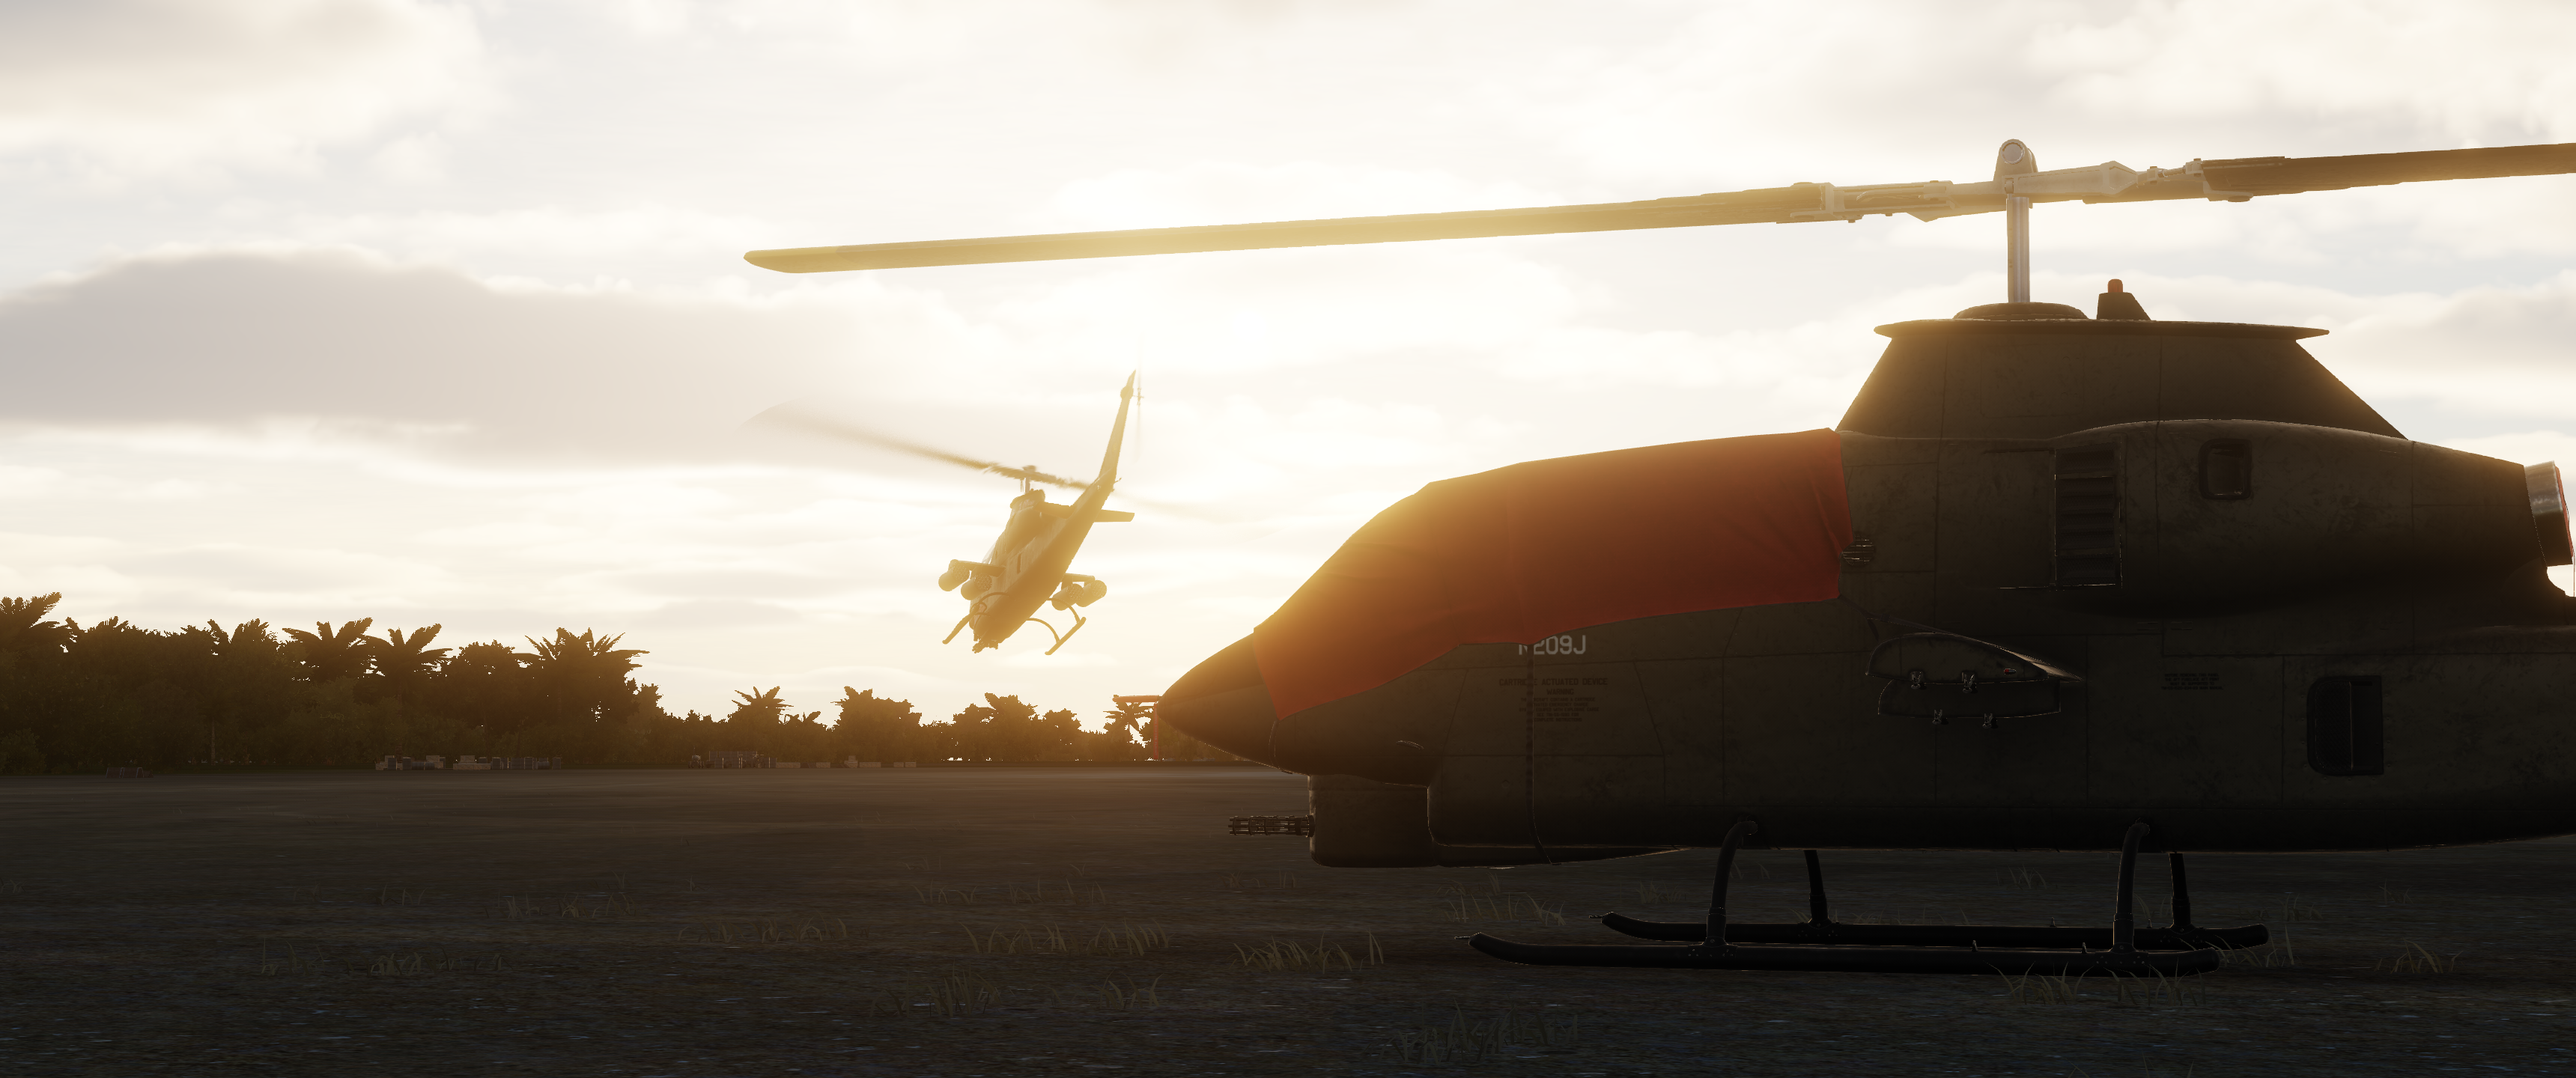
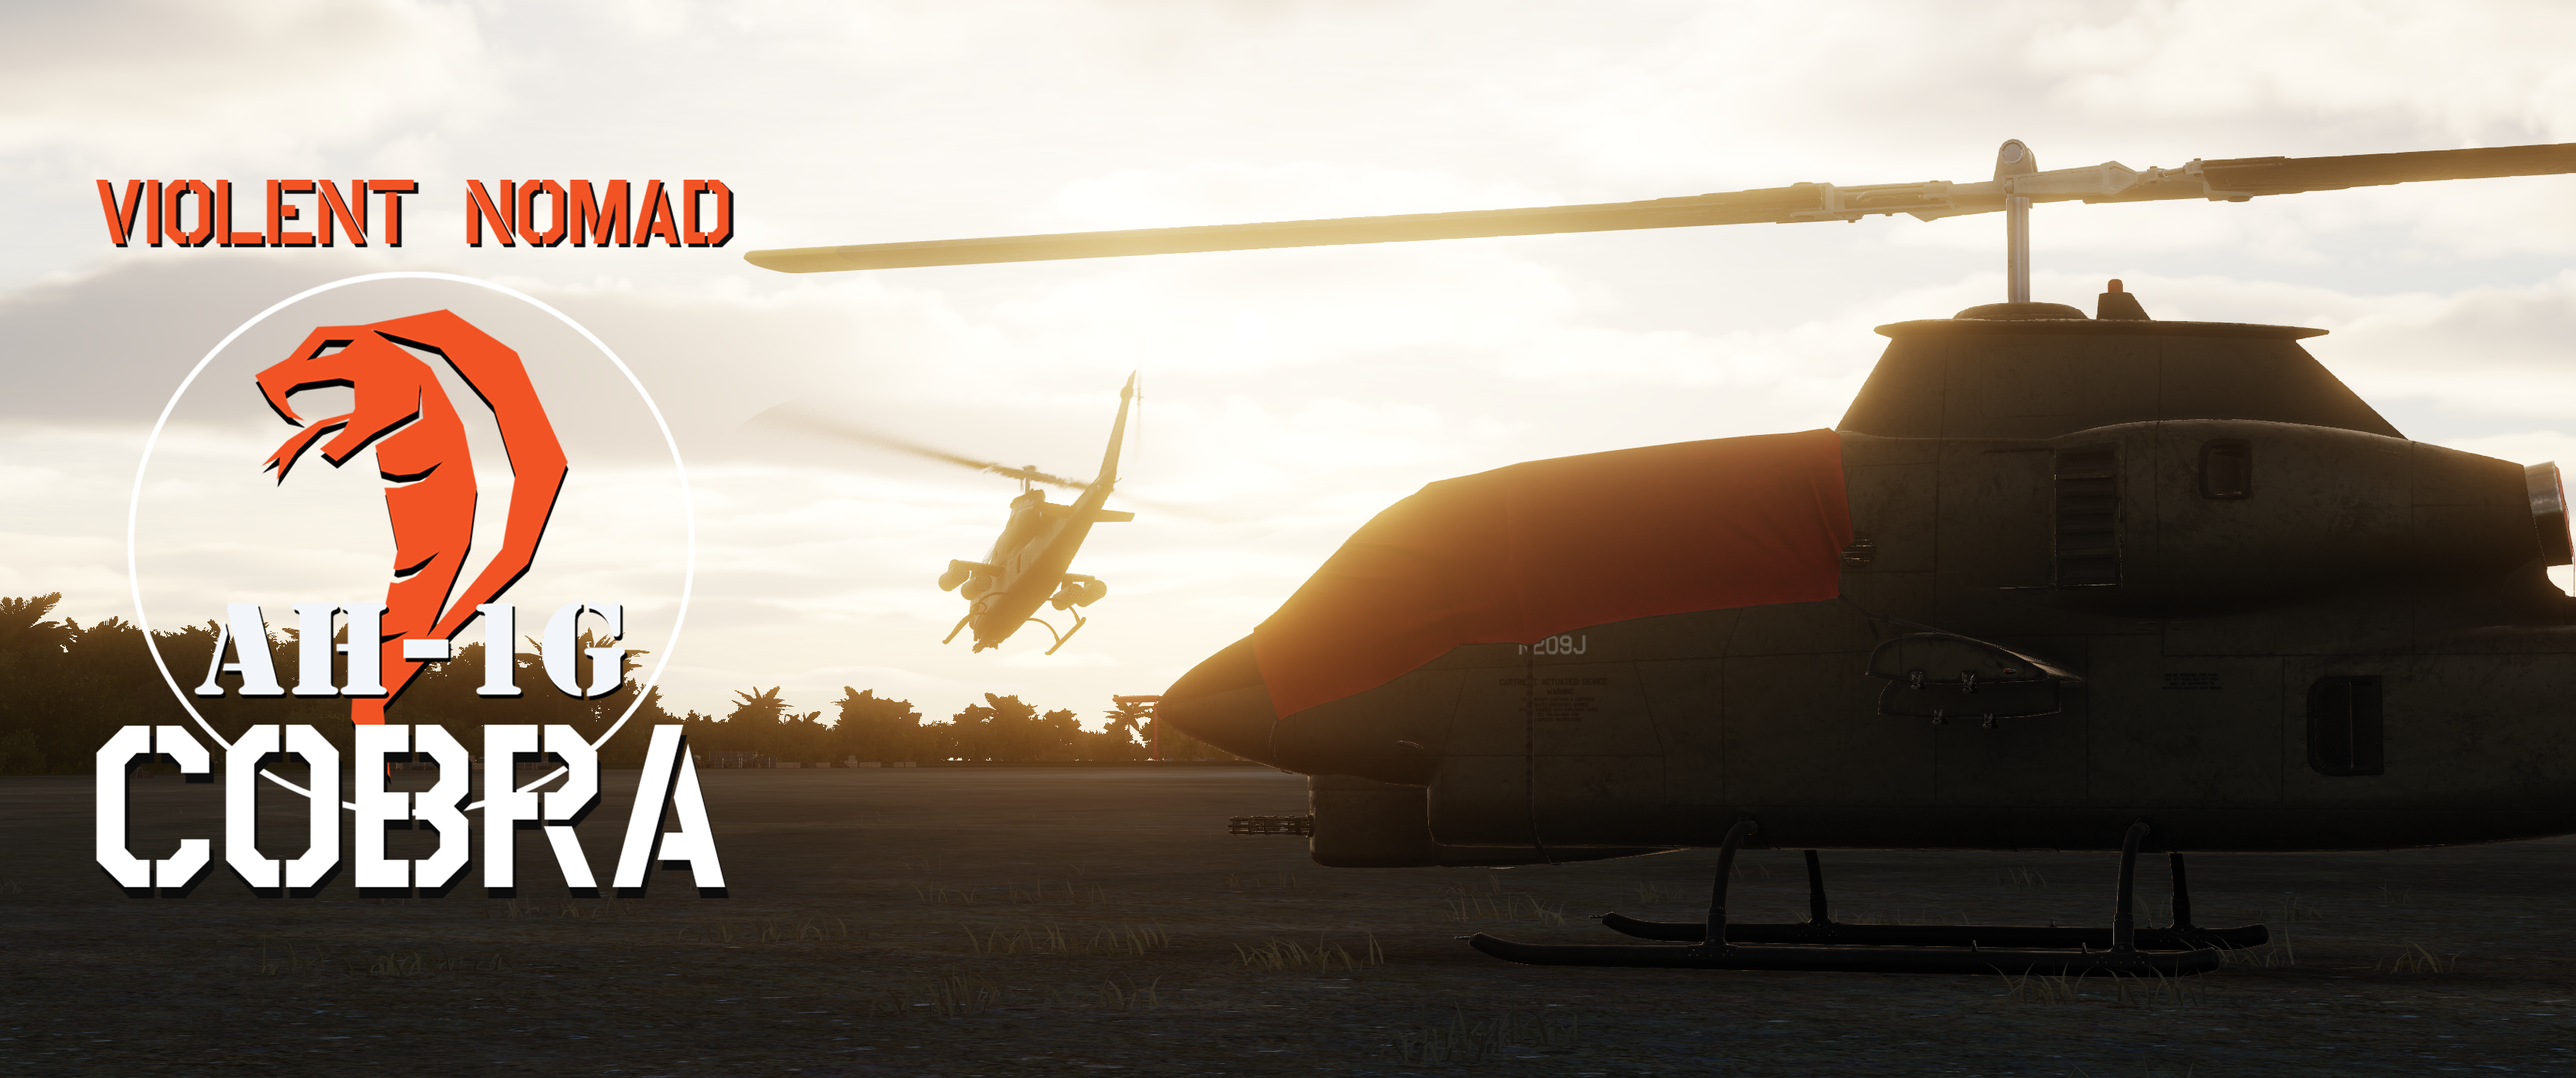
new images, keybinds

Changed region(s): [[0.0311, 0.1562, 0.311, 0.8438]]

diff --git a/docs/Setup/Keybinds.md b/docs/Setup/Keybinds.md
@@ -1,0 +1,49 @@
+# Keybinds
+
+The AH-1G mod features support for every possible input type for each input.  
+The examples below show how to bind the keybinds depending on your required input method. 
+!!! Note 
+    *Each table lists the options, you only need to bind one row, depending on your setup.*
+
+---
+
+## 2 Position Switch Example
+
+![alt text](images/2pos.png)
+
+| Options | Binds | Description |
+| -- | -- | -- |
+| **Toggle** | 1 | Cycles between on and off every time key is pressed |
+| **ARM** or **SAFE** | 2 | Specific position keybinds, these do not toggle |
+| **SAFE<>ARM** | 1 | Armed else safe, perfect for a 2 position latching switch. |
+
+
+
+---
+
+## 3 Position Switch Example
+
+![alt text](images/3pos.png)
+
+| Options | Binds | Description |
+| -- | -- | -- |
+| **Cycle** | 1 | Cycles between each position every time key is pressed |
+| **IN**/**OUTBOARD** or **SAFE** | 3 | Non Toggle Position Keybinds |
+| **IN**/**OUTBOARD<>SAFE** | 1 | IN/OUTBOARD else safe, perfect for a 3 pos latching switch |
+
+---
+
+## Multi Position Switch Example
+
+![alt text](images/multipos.png)
+
+| Options | Binds | Description |
+| -- | -- | -- |
+| **Cycle** | 1 | Cycles between each position every time key is pressed |
+| **INC**/**DEC** | 2 | Increases or decreases value of switch. |
+| **1**/**2**/**4**/**7**/**19** | 5 | Non Toggle Position Keybinds |
+
+---
+
+# Need Something Custom?
+Ping `@Hayds_93` in our [discord](/support/#discord-server) if your setup isn't standard, or if theres any trouble interfacing with various tools such as DCS BIOS.

diff --git a/docs/index.md b/docs/index.md
@@ -9,6 +9,8 @@ The AH‑1G Cobra is a Vietnam‑era light attack helicopter developed from the 
 
 Typical roles include close air support, armed escort, and armed reconnaissance. The type is built around a forward‑firing weapons philosophy: a nose‑mounted gun turret supplemented by hardpoints for unguided rockets and guided anti‑armor weapons on later variants.
 
+![Cobra](images/VNAH1GWP013.png)
+
 Key features
 
 * Two‑seat tandem cockpit for pilot and gunner

diff --git a/docs/support.md b/docs/support.md
@@ -1,0 +1,15 @@
+# Support
+
+## Discord Server
+
+Our Discord Server can be found [here](https://discord.gg/HsW8BdUCr8){:target="_blank"}. This is the easiest way to get in contact with the team.
+
+---
+
+## Support Us
+
+This is a hobby project for us we do in our spare time, any support is greatly appreciated.
+
+You can support us on Ko-fi [here](https://ko-fi.com/violentnomad){:target="_blank"}.
+
+![Cobra Rocket Run](images/cobraRockets.png)

diff --git a/docs/Weapons/Overview.md b/docs/Weapons/Overview.md
@@ -59,7 +59,7 @@ The XM197 is a 20x102mm 3 barrel minigun, housing 950 rounds.
 
 ### GE430
 
-The GE430 shoots 80x173mm rounds, with a capacity of 80 rounds.
+The GE430 shoots 30x173mm rounds, with a capacity of 80 rounds.
 
 ![GE430](images/GE430.png)
 *GE430 equipped Cobra breaks away from the camera ship*
